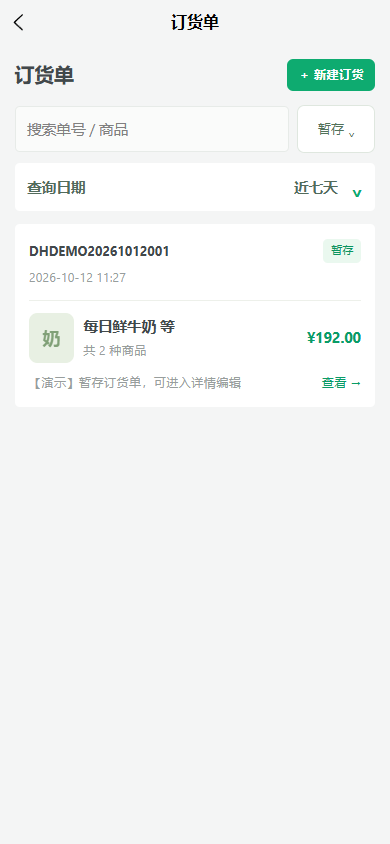
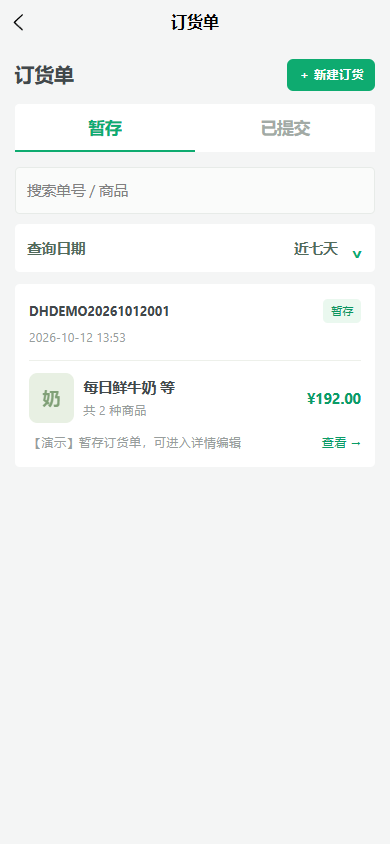
feat: replace order status menu with saved and submitted tabs

diff --git a/dist/build/mp-weixin/pages/documents/index.js b/dist/build/mp-weixin/pages/documents/index.js
@@ -1,1 +1,1 @@
-"use strict";const e=require("../../common/vendor.js"),a=require("../../services/api.js"),u=require("../../core/validation.js"),l=require("../../core/order-list.js");Math||t();const t=()=>"../../components/ProductMark.js",n={__name:"index",setup(t){const n=e.ref(2),r=e.ref("orders"),v=e.ref([]),i=e.ref(!1),s=e.ref(""),o=e.ref(""),d=e.ref("ALL"),c=e.ref(10);let f=0;const m=e.computed(()=>({orders:["ALL","DRAFT","SUBMITTED"],receipts:["ALL","PENDING","RECEIVED"],differences:["ALL","OPEN","RESOLVED"],returns:["ALL","DRAFT","SUBMITTED","APPROVED","SHIPPED","COMPLETED","REJECTED","CANCELLED"]}[r.value])),E=e.computed(()=>m.value.map(e=>"ALL"===e?"全部状态":u.documentLabel(r.value,e))),p=e.computed(()=>m.value.indexOf(d.value));function L(){e.index.showActionSheet({itemList:E.value,success:e=>{return a={detail:{value:e.tapIndex}},d.value=m.value[Number(a.detail.value)],c.value=10,void T();var a}})}const g=e.computed(()=>v.value),D=e.computed(()=>g.value.slice(0,c.value)),h=e=>e.lines.reduce((e,a)=>e+a.price*a.quantity,0);async function T(){if(clearTimeout(A),!a.guard())return;const u=++f;i.value=!0,s.value="",v.value=[],c.value=10;try{const e=await a.api.get(`/${r.value}`,{status:d.value,...l.orderDateRange(n.value),search:o.value.trim()});u===f&&(v.value=e)}catch(t){u===f&&(s.value=t.message)}finally{u===f&&(i.value=!1),e.index.stopPullDownRefresh()}}let A;function P(e){n.value=Number(e.detail.value),T()}return e.watch(o,()=>{++f,v.value=[],i.value=!0,clearTimeout(A),A=setTimeout(T,300)}),e.onBeforeUnmount(()=>{++f,clearTimeout(A)}),e.onLoad(u=>{a.kinds[u.kind]&&(r.value=u.kind),e.index.setNavigationBarTitle({title:a.kinds[r.value]})}),e.onShow(T),e.onPullDownRefresh(T),(t,v)=>e.e({a:e.t(e.unref(a.kinds)[r.value]),b:"orders"===r.value},"orders"===r.value?{c:e.o(u=>e.unref(a.go)("/pages/create/index"),"61")}:{},{d:o.value,e:e.o(e=>o.value=e.detail.value,"ee"),f:e.t(E.value[p.value]),g:e.o(L,"5c"),h:e.t(e.unref(l.dateRanges)[n.value]),i:e.unref(l.dateRanges),j:n.value,k:e.o(P,"db"),l:"returns"===r.value},(r.value,{}),{m:s.value},s.value?{n:e.t(s.value),o:e.o(T,"59")}:{},{p:i.value},(i.value,{}),{q:e.f(D.value,(l,t,n)=>{var v;return{a:e.t(l.id),b:e.t(e.unref(u.documentLabel)(r.value,l.status)),c:e.n({pending:["PENDING","OPEN","SUBMITTED"].includes(l.status),closed:["CANCELLED","REJECTED"].includes(l.status)}),d:e.t(e.unref(a.dateText)(l.createdAt)),e:"a3e91c3a-0-"+n,f:e.p({product:l.lines[0]}),g:e.t(null==(v=l.lines[0])?void 0:v.name),h:e.t(l.lines.length>1?" 等":""),i:e.t(l.lines.length),j:e.t(e.unref(u.money)(h(l))),k:e.t(l.remark||"门店日常业务"),l:l.id,m:e.o(u=>e.unref(a.go)(`/pages/detail/index?kind=${r.value}&id=${l.id}`),l.id)}}),r:!i.value&&!s.value&&!g.value.length},(i.value||s.value||g.value.length,{}),{s:g.value.length>c.value},g.value.length>c.value?{t:e.o(e=>c.value+=10,"8b")}:{})}},r=e._export_sfc(n,[["__scopeId","data-v-a3e91c3a"]]);wx.createPage(r);
+"use strict";const e=require("../../common/vendor.js"),a=require("../../services/api.js"),u=require("../../core/validation.js"),l=require("../../core/order-list.js");Math||t();const t=()=>"../../components/ProductMark.js",r={__name:"index",setup(t){const r=e.ref(2),n=e.ref("orders"),v=e.ref([]),o=e.ref(!1),s=e.ref(""),i=e.ref(""),d=e.ref("DRAFT"),c=e.ref(10);let f=0;const E=e.computed(()=>({orders:["DRAFT","SUBMITTED"],receipts:["ALL","PENDING","RECEIVED"],differences:["ALL","OPEN","RESOLVED"],returns:["ALL","DRAFT","SUBMITTED","APPROVED","SHIPPED","COMPLETED","REJECTED","CANCELLED"]}[n.value])),m=e.computed(()=>E.value.map(e=>"ALL"===e?"全部状态":u.documentLabel(n.value,e))),D=e.computed(()=>E.value.indexOf(d.value));function T(e){d.value!==e&&(d.value=e,A())}function p(){e.index.showActionSheet({itemList:m.value,success:e=>{return a={detail:{value:e.tapIndex}},d.value=E.value[Number(a.detail.value)],c.value=10,void A();var a}})}const g=e.computed(()=>v.value),L=e.computed(()=>g.value.slice(0,c.value)),h=e=>e.lines.reduce((e,a)=>e+a.price*a.quantity,0);async function A(){if(clearTimeout(R),!a.guard())return;const u=++f;o.value=!0,s.value="",v.value=[],c.value=10;try{const e=await a.api.get(`/${n.value}`,{status:d.value,...l.orderDateRange(r.value),search:i.value.trim()});u===f&&(v.value=e)}catch(t){u===f&&(s.value=t.message)}finally{u===f&&(o.value=!1),e.index.stopPullDownRefresh()}}let R;function P(e){r.value=Number(e.detail.value),A()}return e.watch(i,()=>{++f,v.value=[],o.value=!0,clearTimeout(R),R=setTimeout(A,300)}),e.onBeforeUnmount(()=>{++f,clearTimeout(R)}),e.onLoad(u=>{a.kinds[u.kind]&&(n.value=u.kind),d.value="orders"===n.value?"DRAFT":"ALL",e.index.setNavigationBarTitle({title:a.kinds[n.value]})}),e.onShow(A),e.onPullDownRefresh(A),(t,v)=>e.e({a:e.t(e.unref(a.kinds)[n.value]),b:"orders"===n.value},"orders"===n.value?{c:e.o(u=>e.unref(a.go)("/pages/create/index"),"61")}:{},{d:"orders"===n.value},"orders"===n.value?{e:e.n({active:"DRAFT"===d.value}),f:e.o(e=>T("DRAFT"),"59"),g:e.n({active:"SUBMITTED"===d.value}),h:e.o(e=>T("SUBMITTED"),"7f")}:{},{i:i.value,j:e.o(e=>i.value=e.detail.value,"d5"),k:"orders"!==n.value},"orders"!==n.value?{l:e.t(m.value[D.value]),m:e.o(p,"a3")}:{},{n:e.t(e.unref(l.dateRanges)[r.value]),o:e.unref(l.dateRanges),p:r.value,q:e.o(P,"54"),r:"returns"===n.value},(n.value,{}),{s:s.value},s.value?{t:e.t(s.value),v:e.o(A,"eb")}:{},{w:o.value},(o.value,{}),{x:e.f(L.value,(l,t,r)=>{var v;return{a:e.t(l.id),b:e.t(e.unref(u.documentLabel)(n.value,l.status)),c:e.n({pending:["PENDING","OPEN","SUBMITTED"].includes(l.status),closed:["CANCELLED","REJECTED"].includes(l.status)}),d:e.t(e.unref(a.dateText)(l.createdAt)),e:"db17a20f-0-"+r,f:e.p({product:l.lines[0]}),g:e.t(null==(v=l.lines[0])?void 0:v.name),h:e.t(l.lines.length>1?" 等":""),i:e.t(l.lines.length),j:e.t(e.unref(u.money)(h(l))),k:e.t(l.remark||"门店日常业务"),l:l.id,m:e.o(u=>e.unref(a.go)(`/pages/detail/index?kind=${n.value}&id=${l.id}`),l.id)}}),y:!o.value&&!s.value&&!g.value.length},(o.value||s.value||g.value.length,{}),{z:g.value.length>c.value},g.value.length>c.value?{A:e.o(e=>c.value+=10,"28")}:{})}},n=e._export_sfc(r,[["__scopeId","data-v-db17a20f"]]);wx.createPage(n);

diff --git a/src/pages/documents/index.vue b/src/pages/documents/index.vue
@@ -1,5 +1,6 @@
 <template><view class="page"><view class="between"><view class="title">{{ kinds[kind] }}</view><button v-if="kind === 'orders'" class="primary small" @tap="go('/pages/create/index')">＋ 新建订货</button></view>
-  <view class="list-tools"><input v-model="search" class="input grow" placeholder="搜索单号 / 商品"/><button class="status-picker" aria-label="选择单据状态" @tap="openStatus">{{filterLabels[filterIndex]}} <text>⌄</text></button></view>
+  <view v-if="kind==='orders'" class="order-status-tabs"><button :class="['status-tab',{active:status==='DRAFT'}]" aria-label="暂存订货单" @tap="switchOrderStatus('DRAFT')">暂存</button><button :class="['status-tab',{active:status==='SUBMITTED'}]" aria-label="已提交订货单" @tap="switchOrderStatus('SUBMITTED')">已提交</button></view>
+  <view class="list-tools"><input v-model="search" class="input grow" placeholder="搜索单号 / 商品"/><button v-if="kind!=='orders'" class="status-picker" aria-label="选择单据状态" @tap="openStatus">{{filterLabels[filterIndex]}} <text>⌄</text></button></view>
   <picker class="date-query" :range="dateRanges" :value="rangeIndex" @change="selectRange"><view class="date-query-row"><text>查询日期</text><view>{{dateRanges[rangeIndex]}} <text class="chevron">⌄</text></view></view></picker>
   <view v-if="kind === 'returns'" class="demo-banner">新建退货：进入“已收货”单据，从来源明细申请退货。</view>
   <view v-if="error" class="error" @tap="load">{{ error }} · 点击重试</view><view v-if="loading" class="empty">正在查询…</view>
@@ -14,10 +15,11 @@ import { labels, money, documentLabel } from '../../core/validation.js'
 import ProductMark from '../../components/ProductMark.vue'
 import {dateRanges,orderDateRange} from '../../core/order-list.js'
 const rangeIndex=ref(2)
-const kind=ref('orders'), docs=ref([]), loading=ref(false), error=ref(''), search=ref(''), status=ref('ALL'), limit=ref(10)
+const kind=ref('orders'), docs=ref([]), loading=ref(false), error=ref(''), search=ref(''), status=ref('DRAFT'), limit=ref(10)
 let loadId = 0
-const filters=computed(()=>({orders:['ALL','DRAFT','SUBMITTED'],receipts:['ALL','PENDING','RECEIVED'],differences:['ALL','OPEN','RESOLVED'],returns:['ALL','DRAFT','SUBMITTED','APPROVED','SHIPPED','COMPLETED','REJECTED','CANCELLED']}[kind.value]))
+const filters=computed(()=>({orders:['DRAFT','SUBMITTED'],receipts:['ALL','PENDING','RECEIVED'],differences:['ALL','OPEN','RESOLVED'],returns:['ALL','DRAFT','SUBMITTED','APPROVED','SHIPPED','COMPLETED','REJECTED','CANCELLED']}[kind.value]))
 const filterLabels=computed(()=>filters.value.map(s=>s==='ALL'?'全部状态':documentLabel(kind.value,s))),filterIndex=computed(()=>filters.value.indexOf(status.value))
+function switchOrderStatus(value){if(status.value===value)return;status.value=value;load()}
 function openStatus(){uni.showActionSheet({itemList:filterLabels.value,success:result=>selectStatus({detail:{value:result.tapIndex}})})}
 function selectStatus(event){status.value=filters.value[Number(event.detail.value)];limit.value=10;load()}
 const filtered=computed(()=>docs.value),visible=computed(()=>filtered.value.slice(0,limit.value))
@@ -27,6 +29,6 @@ let timer
 watch(search,()=>{++loadId;docs.value=[];loading.value=true;clearTimeout(timer);timer=setTimeout(load,300)})
 onBeforeUnmount(()=>{++loadId;clearTimeout(timer)})
 function selectRange(event){rangeIndex.value=Number(event.detail.value);load()}
-onLoad(options=>{if(kinds[options.kind])kind.value=options.kind;uni.setNavigationBarTitle({title:kinds[kind.value]})});onShow(load);onPullDownRefresh(load)
+onLoad(options=>{if(kinds[options.kind])kind.value=options.kind;status.value=kind.value==='orders'?'DRAFT':'ALL';uni.setNavigationBarTitle({title:kinds[kind.value]})});onShow(load);onPullDownRefresh(load)
 </script>
-<style scoped>.list-tools{display:flex;align-items:center;gap:16rpx;margin:28rpx 0}.list-tools .input{min-width:0}.status-picker{flex-shrink:0;min-height:48px;min-width:150rpx;display:flex;align-items:center;justify-content:center;gap:8rpx;font-weight:400;padding:20rpx 18rpx;border:1rpx solid #dfe7df;background:white;border-radius:14rpx;font-size:25rpx;color:#52725b;white-space:nowrap}.date-query{display:block;margin:-8rpx 0 24rpx}.date-query-row{display:flex;align-items:center;justify-content:space-between;padding:20rpx 24rpx;background:white;border-radius:9rpx;min-height:48px;font-size:28rpx;font-weight:600;color:#526b5c}.date-query-row .chevron{margin-left:18rpx;color:#0eab70}.doc-no{font-size:25rpx;font-weight:650;word-break:break-all}</style>
+<style scoped>.order-status-tabs{display:flex;background:white;margin-top:26rpx;border-radius:9rpx 9rpx 0 0;overflow:hidden}.status-tab{width:50%;min-height:48px;text-align:center;border-radius:0;background:white;padding:22rpx 12rpx;border-bottom:5rpx solid transparent;color:#a2aaa5;font-size:32rpx;font-weight:700}.status-tab.active{color:#0eab70;border-bottom-color:#0eab70}.list-tools{display:flex;align-items:center;gap:16rpx;margin:28rpx 0}.list-tools .input{min-width:0}.status-picker{flex-shrink:0;min-height:48px;min-width:150rpx;display:flex;align-items:center;justify-content:center;gap:8rpx;font-weight:400;padding:20rpx 18rpx;border:1rpx solid #dfe7df;background:white;border-radius:14rpx;font-size:25rpx;color:#52725b;white-space:nowrap}.date-query{display:block;margin:-8rpx 0 24rpx}.date-query-row{display:flex;align-items:center;justify-content:space-between;padding:20rpx 24rpx;background:white;border-radius:9rpx;min-height:48px;font-size:28rpx;font-weight:600;color:#526b5c}.date-query-row .chevron{margin-left:18rpx;color:#0eab70}.doc-no{font-size:25rpx;font-weight:650;word-break:break-all}</style>

diff --git a/README.md b/README.md
@@ -105,8 +105,10 @@ dist/build/mp-weixin/ 可直接导入微信开发者工具的产物
 
 继续用源码工程时，运行 `npm run build:mp-weixin`，随后 `npm run check:weixin`，再在工具中清缓存编译。新版构建命令自动校验日期、搜索、错误、数量及按钮绑定，并生成 build-integrity.json；不要单独复制构建中的 JS/WXML/WXSS。此检查不替代微信真机验证。
 
-订货单保留卡片列表。状态可选全部状态/暂存/已提交，默认近七天，可查询今天、昨天、本月、近三月；暂存详情可编辑商品数量、备注、到货日期并保存原单，提交后只读。
+订货单保留卡片列表。状态使用暂存/已提交两个标签，默认近七天，可查询今天、昨天、本月、近三月；暂存详情可编辑商品数量、备注、到货日期并保存原单，提交后只读。
 
-状态查询点击按钮后弹出菜单。体验版新增暂存示例 DHDEMO20261012001，可选“暂存”查看、编辑；已有演示数据自动补入一次，保留原单据。
+订货状态点击暂存/已提交标签切换。体验版新增暂存示例 DHDEMO20261012001，可选“暂存”查看、编辑；已有演示数据自动补入一次，保留原单据。
 
 详情页移除操作记录，暂存订货单可确认后删除（物理移除），提交后不可删除。删除演示样例后不会自动重新生成。
+
+订货单状态改为“暂存 / 已提交”两个标签，默认暂存，取消全部状态入口；切换保留搜索与日期，选中项有绿色下划线。

diff --git a/docs/架构与接口规范.md b/docs/架构与接口规范.md
@@ -136,3 +136,7 @@ POST /orders/{id}/update：version、templateId、arrivalDate、lines:[{sku,quan
 详情页取消操作记录区域；暂存订货单的取消按钮改为删除单据，保留编辑/提交。删除须确认，POST /orders/{id}/delete携带version和Idempotency-Key；仅允许本门店DRAFT且无关联收货/退货单。演示传输器从orders数组移除记录并持久化，不写CANCELLED标记；同键重复请求返回同一删除结果，详情后续返回404。删除成功清理该单编辑缓存并返回列表，示例迁移标记保留防止重新生成。已提交无删除入口，接口状态/版本/关联检查409拒绝。退货取消流程保持其占用释放规则。
 
 正式BFF/CMP适配需提供对应物理删除API，在事务中完成权限、版本和关联校验及实际删除，禁止只由前端隐藏列表条目。当前尚未对真实CMP执行删除。
+
+## 订货状态标签切换（2026-10-12）
+
+订货列表取消全部状态入口，改为暂存/已提交两个标签，默认暂存。点击标签保留搜索内容及日期范围，仍通过统一GET /orders传递DRAFT或SUBMITTED状态；已提交覆盖后台SUBMITTED/APPROVED，取消历史单不在两个标签中出现。绿色文字与下划线标记当前标签。查询日期、新建入口、卡片、暂存编辑/物理删除和提交后只读继续保留，其他业务模块沿用原状态菜单。
